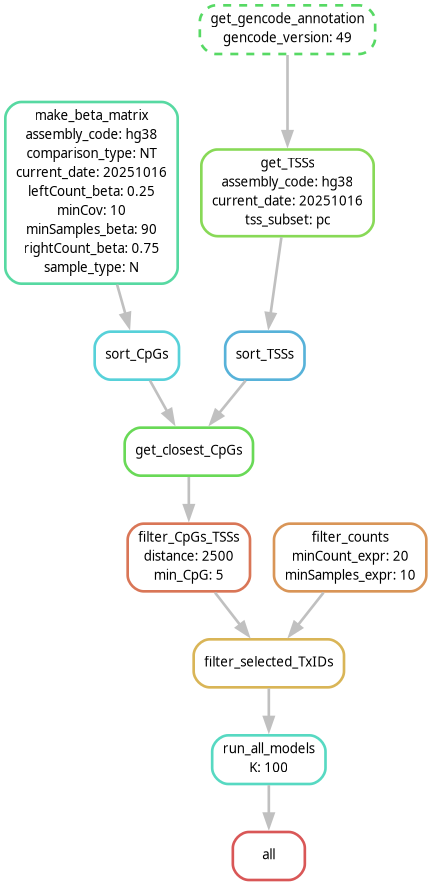
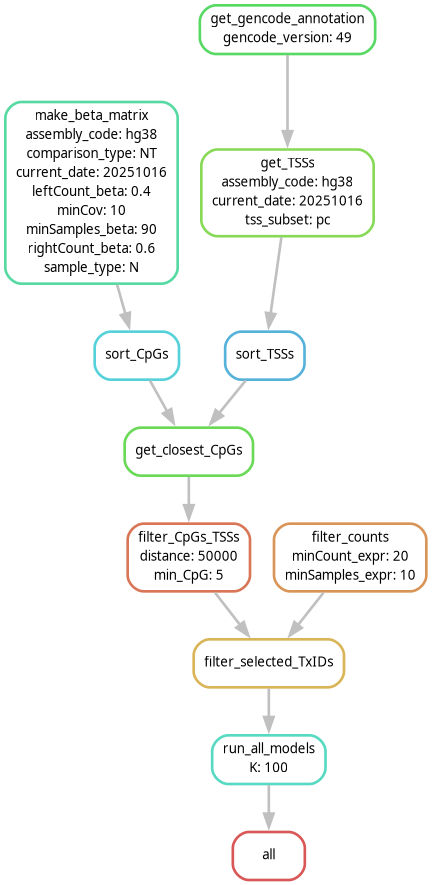
mem optimization beta matrix + fix in train models

diff --git a/workflow/scripts/train_models.py b/workflow/scripts/train_models.py
@@ -130,7 +130,7 @@ for random_init in random_inits_xgboost:
 						fp.write(str(feature) + "\n")
 
 				with open(args.output_path_feat_imp, 'w') as fp:
-    				pass
+					pass
 
 				exit(0)
 
@@ -155,7 +155,7 @@ for random_init in random_inits_xgboost:
 		explainer = shap.TreeExplainer(model, approximate = False)
 		shap_values = explainer.shap_values(X_train_reduced)
 		features_for_shap = X_train_reduced.columns.tolist()
-		mean_abs_shap = np.mean(np.abs(shap_values), axis = 0).tolist()
+		mean_abs_shap = numpy.mean(numpy.abs(shap_values), axis = 0).tolist()
 		importance_shap = {features_for_shap[i]:mean_abs_shap[i] for i in range(0, len(features_for_shap))}
 
 		feature_importance_df = pandas.DataFrame([importance_weight, importance_gain, importance_cover, importance_shap], index = ["weight", "gain", "cover", "shap"])
